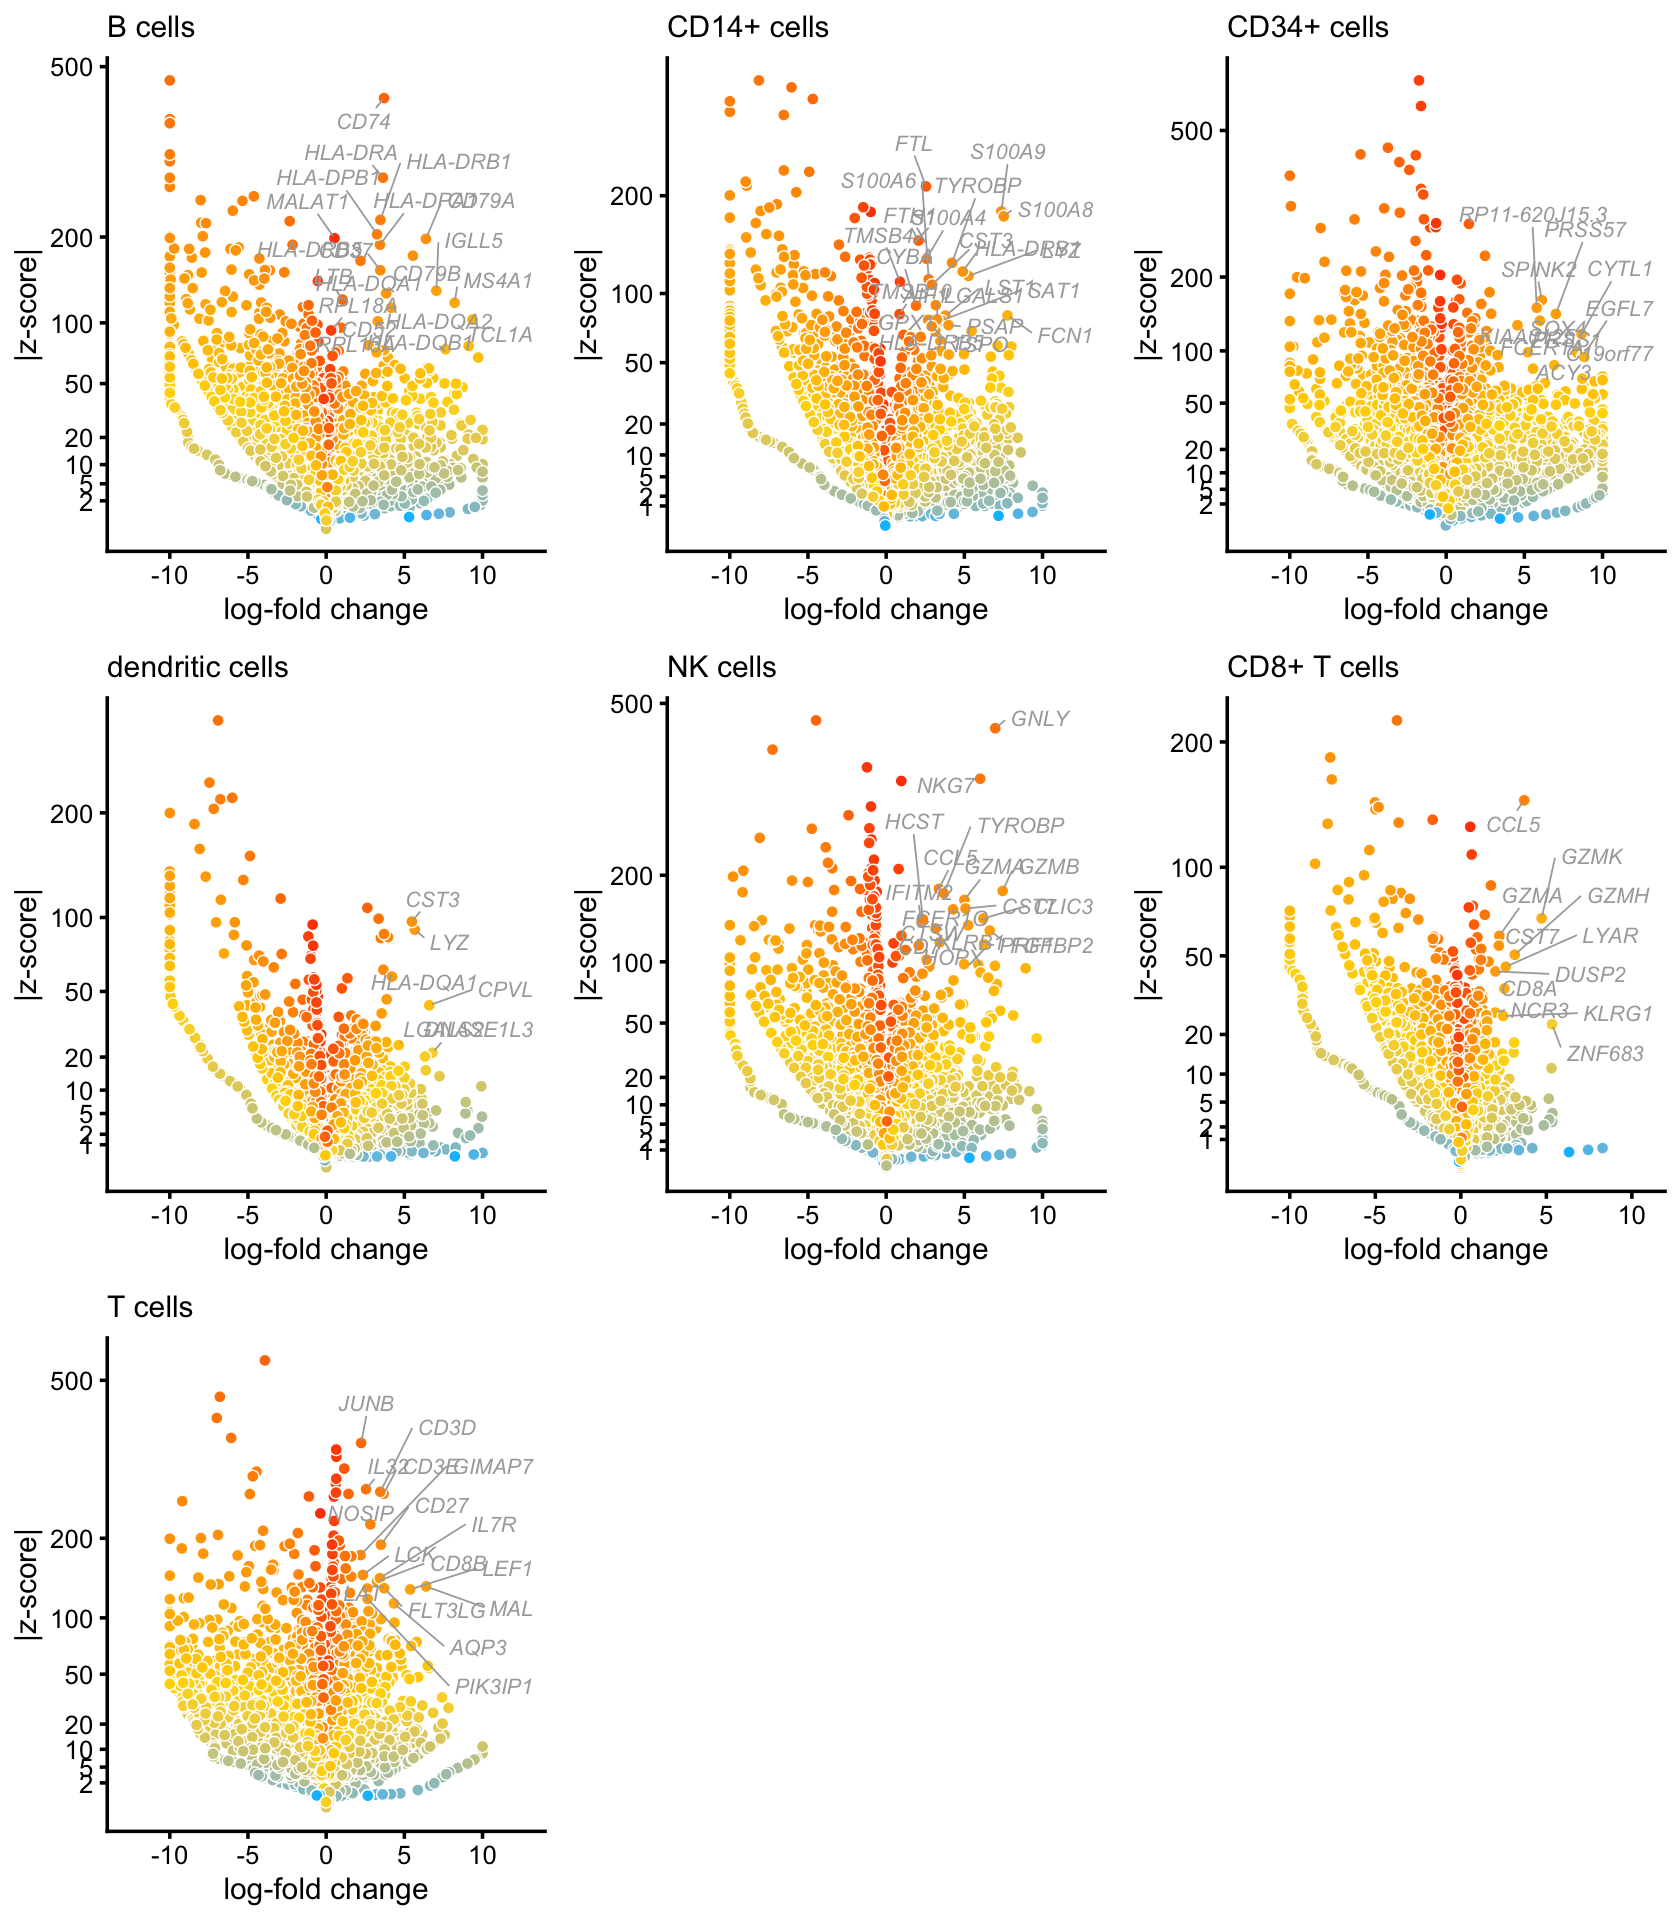
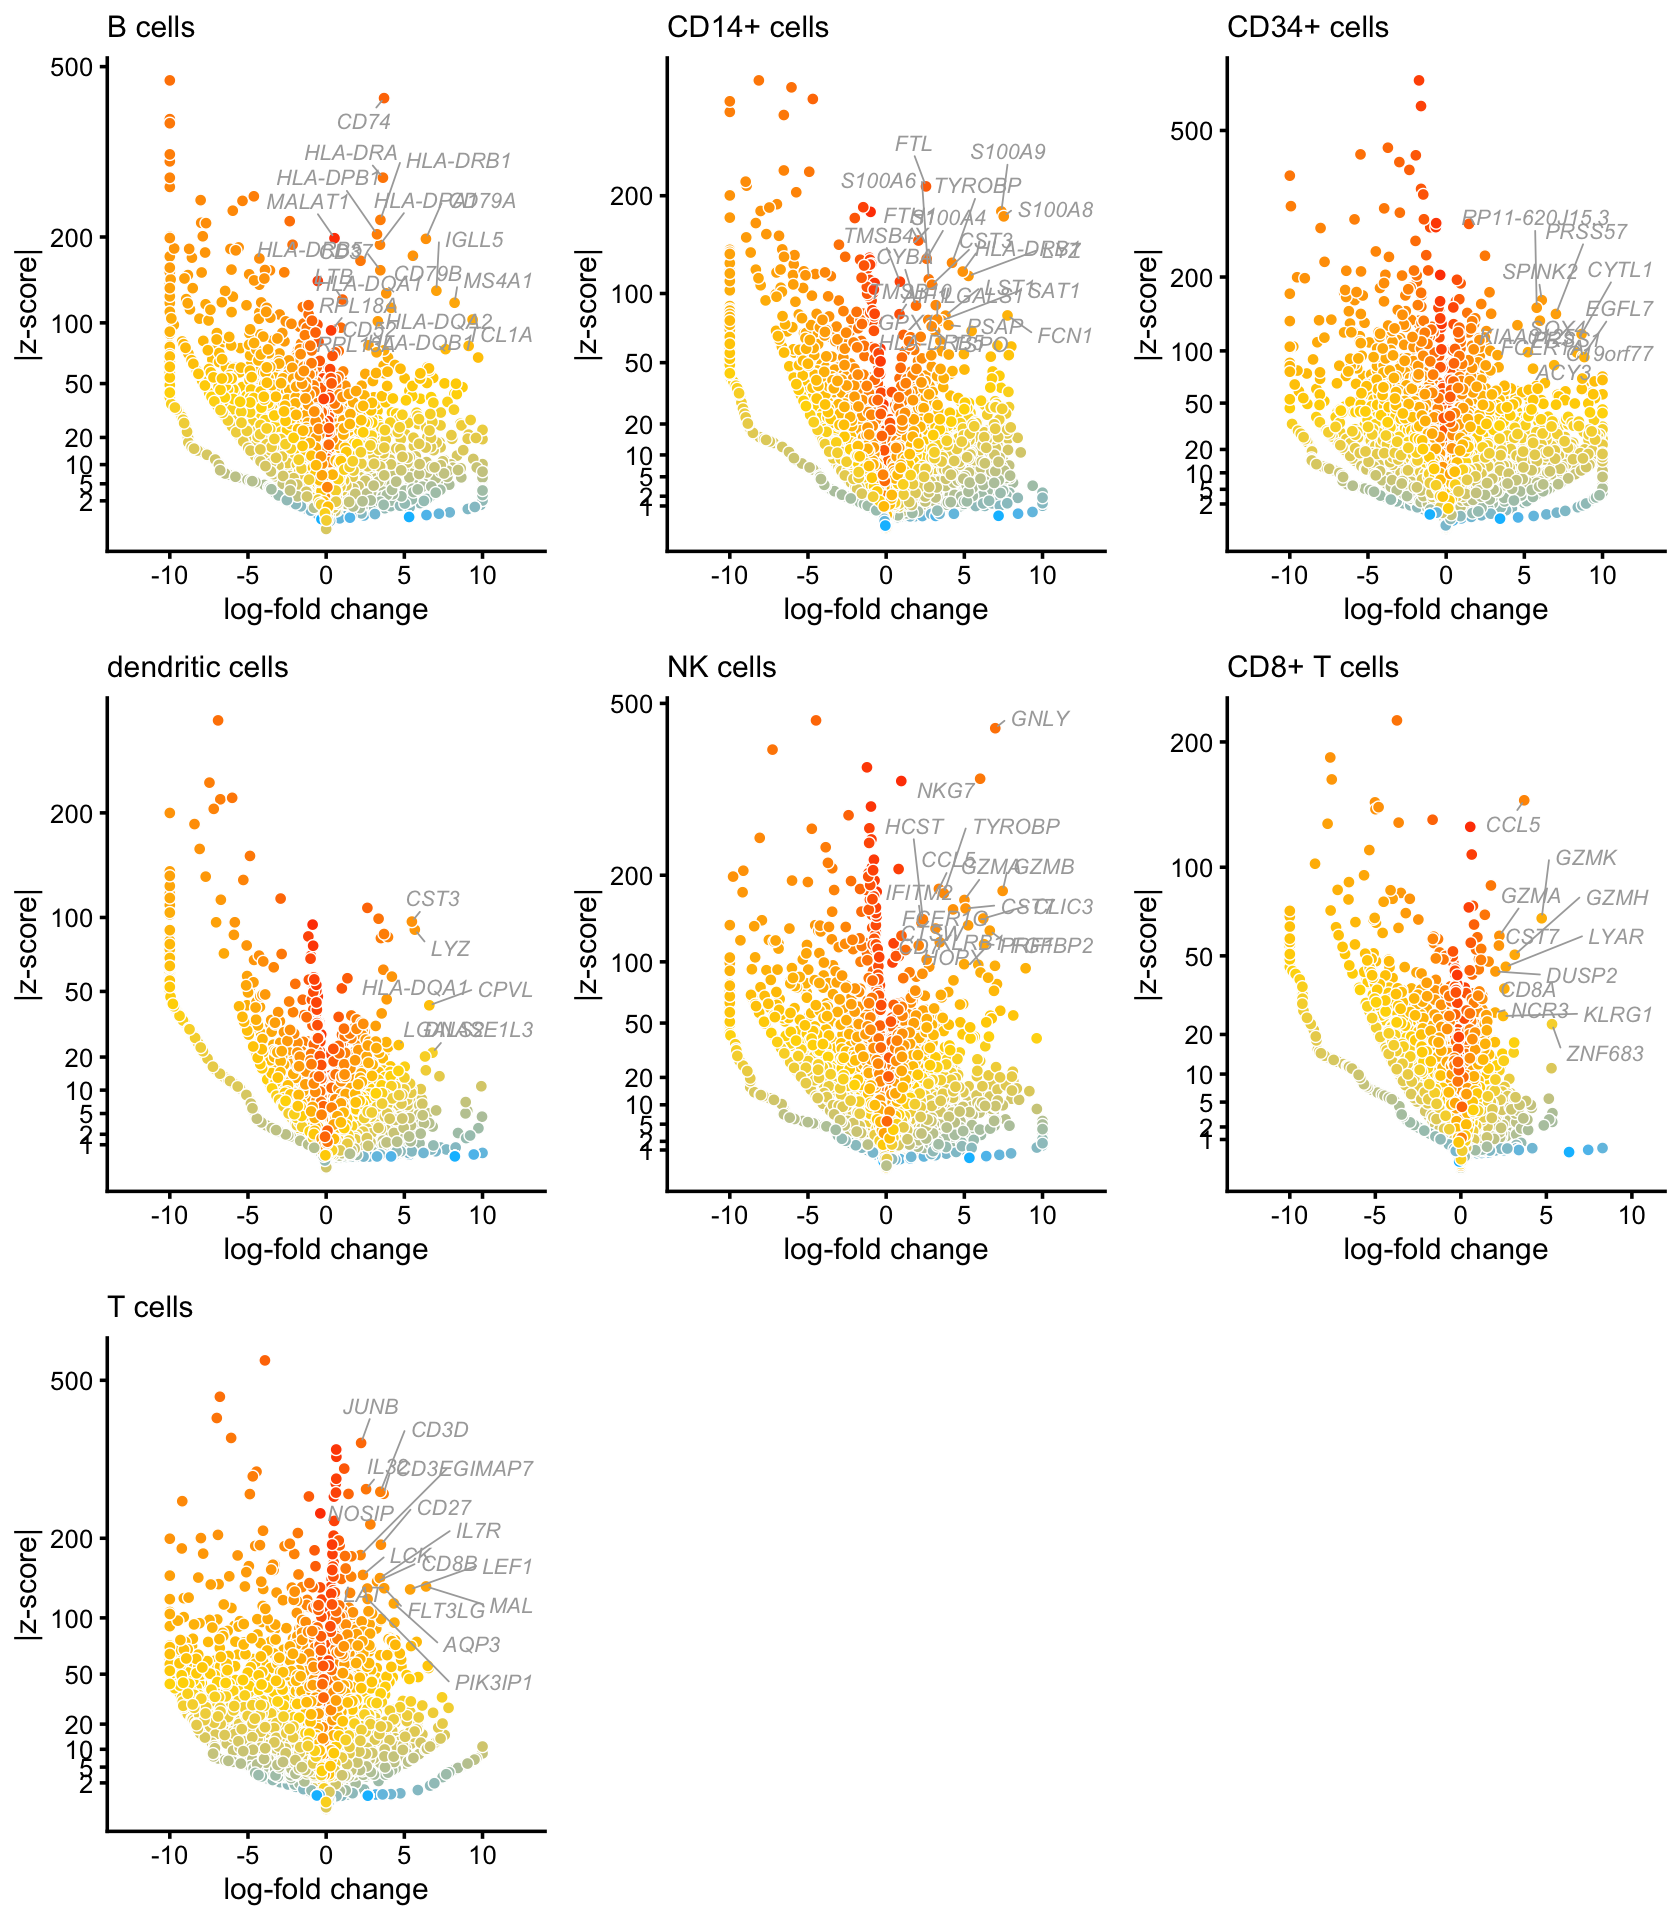
Added scatterplots back to plots_purified_pbmc analysis.

diff --git a/docs/plots_purified_pbmc.html b/docs/plots_purified_pbmc.html
@@ -323,7 +323,7 @@ $(document).ready(function () {
 <div class="tab-content">
 <div id="summary" class="tab-pane fade in active">
 <p>
-<strong>Last updated:</strong> 2021-02-24
+<strong>Last updated:</strong> 2021-02-25
 </p>
 <p>
 <strong>Checks:</strong> <span class="glyphicon glyphicon-ok text-success" aria-hidden="true"></span> 6 <span class="glyphicon glyphicon-exclamation-sign text-danger" aria-hidden="true"></span> 1
@@ -429,16 +429,16 @@ gsea-3
 <div class="panel panel-default">
 <div class="panel-heading">
 <p class="panel-title">
-<a data-toggle="collapse" data-parent="#workflowr-checks" href="#strongRepositoryversionstrongahrefhttpsgithubcomstephenslabsinglecelltopicstreef79d2e8095d0c8b3b553b0156d90eb553f937925targetblankf79d2e8a"> <span class="glyphicon glyphicon-ok text-success" aria-hidden="true"></span> <strong>Repository version:</strong> <a href="https://github.com/stephenslab/single-cell-topics/tree/f79d2e8095d0c8b3b553b0156d90eb553f937925" target="_blank">f79d2e8</a> </a>
+<a data-toggle="collapse" data-parent="#workflowr-checks" href="#strongRepositoryversionstrongahrefhttpsgithubcomstephenslabsinglecelltopicstree4d9e8ba38f477ef9748b5b1f2fea0664976ca519targetblank4d9e8baa"> <span class="glyphicon glyphicon-ok text-success" aria-hidden="true"></span> <strong>Repository version:</strong> <a href="https://github.com/stephenslab/single-cell-topics/tree/4d9e8ba38f477ef9748b5b1f2fea0664976ca519" target="_blank">4d9e8ba</a> </a>
 </p>
 </div>
[2 lines of base64/hex data omitted]
 <div class="panel-body">
 <p>
 Great! You are using Git for version control. Tracking code development and connecting the code version to the results is critical for reproducibility.
 </p>
 <p>
-The results in this page were generated with repository version <a href="https://github.com/stephenslab/single-cell-topics/tree/f79d2e8095d0c8b3b553b0156d90eb553f937925" target="_blank">f79d2e8</a>. See the <em>Past versions</em> tab to see a history of the changes made to the R Markdown and HTML files.
+The results in this page were generated with repository version <a href="https://github.com/stephenslab/single-cell-topics/tree/4d9e8ba38f477ef9748b5b1f2fea0664976ca519" target="_blank">4d9e8ba</a>. See the <em>Past versions</em> tab to see a history of the changes made to the R Markdown and HTML files.
 </p>
 <p>
 Note that you need to be careful to ensure that all relevant files for the analysis have been committed to Git prior to generating the results (you can use <code>wflow_publish</code> or <code>wflow_git_commit</code>). workflowr only checks the R Markdown file, but you know if there are other scripts or data files that it depends on. Below is the status of the Git repository when the results were generated:
@@ -463,6 +463,9 @@ Ignored files:
 Untracked files:
     Untracked:  analysis/plots_purified_pbmc_cache/
     Untracked:  plots/
+
+Unstaged changes:
+    Modified:   code/functions_for_plots_purified_pbmc.R
 
 </code></pre>
 <p>
@@ -501,6 +504,40 @@ Message
 </tr>
 </thead>
 <tbody>
+<tr>
+<td>
+Rmd
+</td>
+<td>
+<a href="https://github.com/stephenslab/single-cell-topics/blob/4d9e8ba38f477ef9748b5b1f2fea0664976ca519/analysis/plots_purified_pbmc.Rmd" target="_blank">4d9e8ba</a>
+</td>
+<td>
+Peter Carbonetto
+</td>
+<td>
+2021-02-25
+</td>
+<td>
+workflowr::wflow_publish(“plots_purified_pbmc.Rmd”, verbose = TRUE)
+</td>
+</tr>
+<tr>
+<td>
+html
+</td>
+<td>
+<a href="https://rawcdn.githack.com/stephenslab/single-cell-topics/d21aab5a3067c7781a7921579b8188f0d53da399/docs/plots_purified_pbmc.html" target="_blank">d21aab5</a>
+</td>
+<td>
+Peter Carbonetto
+</td>
+<td>
+2021-02-24
+</td>
+<td>
+Re-built the plots_purified_pbmc analysis with the revised volcano plots.
+</td>
+</tr>
 <tr>
 <td>
 Rmd
@@ -1325,6 +1362,17 @@ Date
 <tbody>
 <tr>
 <td>
+<a href="https://github.com/stephenslab/single-cell-topics/blob/d21aab5a3067c7781a7921579b8188f0d53da399/docs/figure/plots_purified_pbmc.Rmd/volcano-plots-1-1.png" target="_blank">d21aab5</a>
+</td>
+<td>
+Peter Carbonetto
+</td>
+<td>
+2021-02-24
+</td>
+</tr>
+<tr>
+<td>
 <a href="https://github.com/stephenslab/single-cell-topics/blob/7be2e951d43dd446b79ff12d090b01d837e6f9b0/docs/figure/plots_purified_pbmc.Rmd/volcano-plots-1-1.png" target="_blank">7be2e95</a>
 </td>
 <td>
@@ -1547,6 +1595,17 @@ Date
 <tbody>
 <tr>
 <td>
+<a href="https://github.com/stephenslab/single-cell-topics/blob/d21aab5a3067c7781a7921579b8188f0d53da399/docs/figure/plots_purified_pbmc.Rmd/volcano-plots-2-1.png" target="_blank">d21aab5</a>
+</td>
+<td>
+Peter Carbonetto
+</td>
+<td>
+2021-02-24
+</td>
+</tr>
+<tr>
+<td>
 <a href="https://github.com/stephenslab/single-cell-topics/blob/7be2e951d43dd446b79ff12d090b01d837e6f9b0/docs/figure/plots_purified_pbmc.Rmd/volcano-plots-2-1.png" target="_blank">7be2e95</a>
 </td>
 <td>
@@ -1762,6 +1821,17 @@ Date
 <tbody>
 <tr>
 <td>
+<a href="https://github.com/stephenslab/single-cell-topics/blob/d21aab5a3067c7781a7921579b8188f0d53da399/docs/figure/plots_purified_pbmc.Rmd/volcano-plots-3-1.png" target="_blank">d21aab5</a>
+</td>
+<td>
+Peter Carbonetto
+</td>
+<td>
+2021-02-24
+</td>
+</tr>
+<tr>
+<td>
 <a href="https://github.com/stephenslab/single-cell-topics/blob/7be2e951d43dd446b79ff12d090b01d837e6f9b0/docs/figure/plots_purified_pbmc.Rmd/volcano-plots-3-1.png" target="_blank">7be2e95</a>
 </td>
 <td>
@@ -1963,23 +2033,44 @@ Peter Carbonetto
 </div>
 </div>
 <p>The list of ribosomal protein genes comes from <a href="https://doi.org/10.1101/gr.214202">Yoshihama <em>et al</em> (2002)</a>.</p>
-<pre class="r"><code>p10 &lt;- lfc_scatterplot(diff_count_facs,diff_count_topics,&quot;CD19+ B&quot;,&quot;k3&quot;,
-                       genes$symbol,label_above_quantile = 0.998,
+<p><em>Add text here.</em></p>
+<pre class="r"><code>celltype &lt;- as.character(celltype)
+celltype[celltype == &quot;CD8+ Cytotoxic T&quot;] &lt;- &quot;T cell&quot;
+celltype &lt;- factor(celltype)
+table(celltype)
+diff_count_facs &lt;- diff_count_clusters(celltype,counts)
+# celltype
+# CD14+ Monocyte        CD19+ B          CD34+       CD56+ NK         T cell 
+#           2612          10085           9232           8385          64341 
+# Fitting 21952 x 5 = 109760 univariate Poisson models.
+# Computing log-fold change statistics.
+# Stabilizing log-fold change estimates using adaptive shrinkage.</code></pre>
+<div class="alert alert-warning">
+<p>
+<strong>Warning:</strong> The above code chunk cached its results, but it won’t be re-run if previous chunks it depends on are updated. If you need to use caching, it is highly recommended to also set <code>knitr::opts_chunk$set(autodep = TRUE)</code> at the top of the file (in a chunk that is not cached). Alternatively, you can customize the option <code>dependson</code> for each individual chunk that is cached. Using either <code>autodep</code> or <code>dependson</code> will remove this warning. See the <a href="https://yihui.name/knitr/options/#cache"
+>knitr cache options</a> for more details.
+</p>
+</div>
+<p><em>Add text here.</em></p>
+<pre class="r"><code>p23 &lt;- lfc_scatterplot(diff_count_facs,diff_count_topics,&quot;CD19+ B&quot;,&quot;k3&quot;,
+                       genes$symbol,label_above_lfc = 6,
+                       label_above_quantile = 0.99,
                        xlab = &quot;B cells FACS subpopulation&quot;,ylab = &quot;topic 3&quot;)
-p11 &lt;- lfc_scatterplot(diff_count_facs,diff_count_topics,&quot;CD56+ NK&quot;,&quot;k4&quot;,
-                       genes$symbol,label_above_quantile = 0.998,
-                       xlab = &quot;NK cells FACS subpopulation&quot;,ylab = &quot;topic 4&quot;)
-p12 &lt;- lfc_scatterplot(diff_count_facs,diff_count_topics,&quot;CD14+ Monocyte&quot;,&quot;k2&quot;,
-                       genes$symbol,label_above_quantile = 0.998,
+p24 &lt;- lfc_scatterplot(diff_count_facs,diff_count_topics,&quot;CD14+ Monocyte&quot;,
+                       &quot;k2&quot;,genes$symbol,label_above_lfc = 6,
+                       label_above_quantile = 0.98,
                        xlab = &quot;CD14+ FACS subpopulation&quot;,ylab = &quot;topic 2&quot;)
-p13 &lt;- lfc_scatterplot(diff_count_facs,diff_count_topics,&quot;CD34+&quot;,&quot;k5&quot;,
-                       genes$symbol,label_above_quantile = 0.998,
-                       xlab = &quot;CD34+ FACS subpopulation&quot;,ylab = &quot;topic 4&quot;)
-p14 &lt;- lfc_scatterplot(diff_count_facs,diff_count_topics,&quot;T cell&quot;,&quot;k1+k6&quot;,
-                       genes$symbol,label_above_quantile = 0.998,
+p25 &lt;- lfc_scatterplot(diff_count_facs,diff_count_topics,&quot;CD56+ NK&quot;,&quot;k4&quot;,
+                       genes$symbol,label_above_lfc = 5,
+                       label_above_quantile = 0.99,
+                       xlab = &quot;NK cells FACS subpopulation&quot;,ylab = &quot;topic 4&quot;)
+p26 &lt;- lfc_scatterplot(diff_count_facs,diff_count_topics,&quot;T cell&quot;,&quot;k1&quot;,
+                       genes$symbol,label_above_lfc = 5,
+                       label_above_quantile = 0.99,
                        xlab = &quot;T cells FACS subpopulation&quot;,
-                       ylab = &quot;topics 1 + 6&quot;)
-plot_grid(p10,p11,p12,p13,p14,nrow = 3,ncol = 2)</code></pre>
+                       ylab = &quot;topic 1&quot;)
+plot_grid(p23,p24,p25,p26,nrow = 2,ncol = 2)</code></pre>
+<p><img src="figure/plots_purified_pbmc.Rmd/topics-vs-facs-scatterplots-2-1.png" width="840" style="display: block; margin: auto;" /></p>
 <p>Prepare the gene set data and differential expression results for the gene set enrichment analysis. First, align the gene-set data with the gene-wise statistics.</p>
 <pre class="r"><code>de        &lt;- diff_count_topics
 out       &lt;- align_gene_data(gene_sets,de)
@@ -2052,13 +2143,13 @@ saveWidget(p,&quot;gsea_plot.html&quot;,selfcontained = TRUE)</code></pre>
 # [55] stringr_1.4.0        MCMCpack_1.4-5       munsell_0.5.0       
 # [58] irlba_2.3.3          compiler_3.6.2       rlang_0.4.5         
 # [61] grid_3.6.2           crosstalk_1.0.0      labeling_0.3        
-# [64] rmarkdown_2.3        gtable_0.3.0         R6_2.4.1            
-# [67] gridExtra_2.3        knitr_1.26           dplyr_0.8.3         
-# [70] fastmap_1.0.1        zeallot_0.1.0        fastmatch_1.1-0     
-# [73] workflowr_1.6.2.9000 rprojroot_1.3-2      stringi_1.4.3       
-# [76] parallel_3.6.2       SQUAREM_2017.10-1    Rcpp_1.0.5          
-# [79] vctrs_0.2.1          tidyselect_0.2.5     xfun_0.11           
-# [82] coda_0.19-3</code></pre>
+# [64] rmarkdown_2.3        codetools_0.2-16     gtable_0.3.0        
+# [67] R6_2.4.1             gridExtra_2.3        knitr_1.26          
+# [70] dplyr_0.8.3          fastmap_1.0.1        zeallot_0.1.0       
+# [73] fastmatch_1.1-0      workflowr_1.6.2.9000 rprojroot_1.3-2     
+# [76] stringi_1.4.3        parallel_3.6.2       SQUAREM_2017.10-1   
+# [79] Rcpp_1.0.5           vctrs_0.2.1          tidyselect_0.2.5    
+# [82] xfun_0.11            coda_0.19-3</code></pre>
 </div>
 
 
